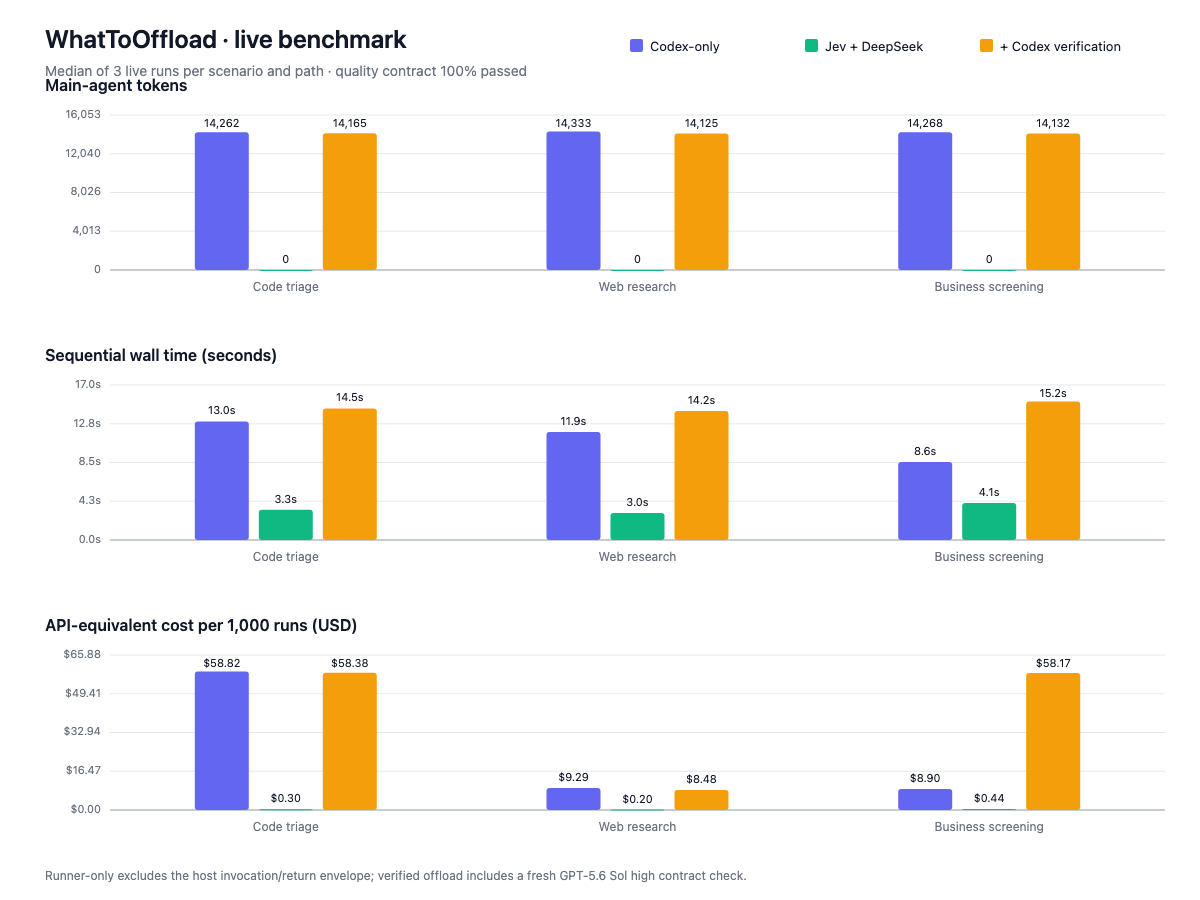
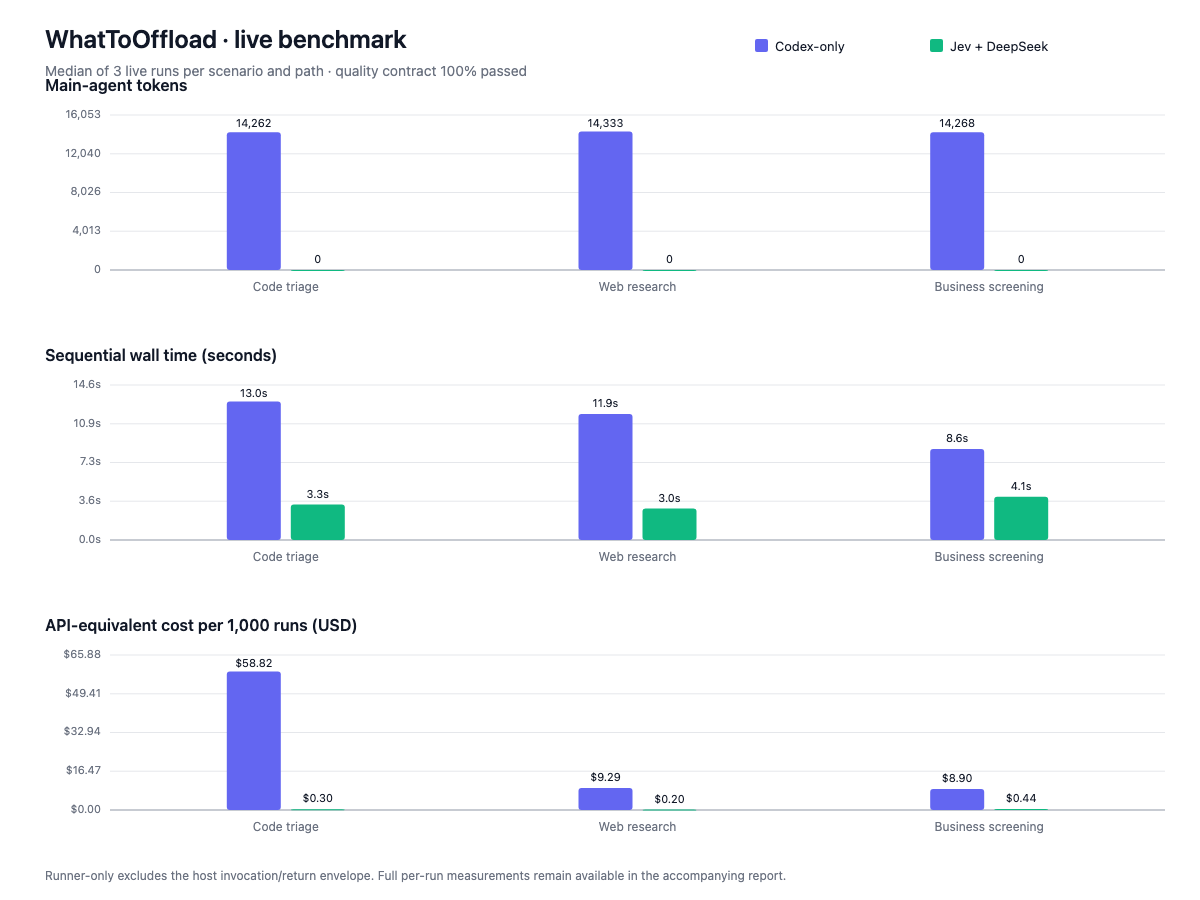
Simplify benchmark comparison chart

diff --git a/benchmarks/benchmark.py b/benchmarks/benchmark.py
@@ -667,7 +667,6 @@ def render_svg(report: Mapping[str, Any]) -> str:
     arms = [
         ("codex_only", "Codex-only", "#6366f1"),
         ("offloaded_runner_only", "Jev + DeepSeek", "#10b981"),
-        ("offloaded_verified", "+ Codex verification", "#f59e0b"),
     ]
     scenarios = report["scenarios"]
     metrics = [
@@ -679,13 +678,13 @@ def render_svg(report: Mapping[str, Any]) -> str:
     parts = [
         '<svg xmlns="http://www.w3.org/2000/svg" width="{}" height="{}" viewBox="0 0 {} {}" role="img" aria-labelledby="title desc">'.format(width, height, width, height),
         '<title id="title">WhatToOffload live benchmark comparison</title>',
-        '<desc id="desc">Three grouped bar charts compare main-agent tokens, sequential wall time, and API-equivalent cost for Codex-only, Jev plus DeepSeek runner-only, and offload with Codex verification. Each value is the median of three live runs and all paths passed the quality contract.</desc>',
+        '<desc id="desc">Three grouped bar charts compare main-agent tokens, sequential wall time, and API-equivalent cost for Codex-only and Jev plus DeepSeek runner-only. Each value is the median of three live runs and all paths passed the quality contract.</desc>',
         '<rect width="1200" height="900" fill="#ffffff"/>',
         '<style>text{font-family:-apple-system,BlinkMacSystemFont,Segoe UI,sans-serif;fill:#111827}.muted{fill:#6b7280}.grid{stroke:#e5e7eb;stroke-width:1}.axis{stroke:#9ca3af;stroke-width:1}</style>',
         '<text x="45" y="48" font-size="25" font-weight="600">WhatToOffload · live benchmark</text>',
         '<text x="45" y="76" font-size="14" class="muted">Median of 3 live runs per scenario and path · quality contract 100% passed</text>',
     ]
-    legend_x = 630
+    legend_x = 755
     for index, (_, label, color) in enumerate(arms):
         x = legend_x + index * 175
         parts.append('<rect x="{}" y="39" width="13" height="13" rx="2" fill="{}"/>'.format(x, color))
@@ -724,7 +723,7 @@ def render_svg(report: Mapping[str, Any]) -> str:
                 label_y = max(top + 12, y - 7)
                 parts.append('<text x="{:.1f}" y="{:.1f}" text-anchor="middle" font-size="11">{}</text>'.format(x + bar_width / 2, label_y, html.escape(formatter(value))))
             parts.append('<text x="{:.1f}" y="{}" text-anchor="middle" font-size="12" class="muted">{}</text>'.format(center, bottom + 21, html.escape(short_names[scenario["id"]])))
-    parts.append('<text x="45" y="880" font-size="12" class="muted">Runner-only excludes the host invocation/return envelope; verified offload includes a fresh GPT-5.6 Sol high contract check.</text>')
+    parts.append('<text x="45" y="880" font-size="12" class="muted">Runner-only excludes the host invocation/return envelope. Full per-run measurements remain available in the accompanying report.</text>')
     parts.append('</svg>')
     return "\n".join(parts) + "\n"
 
